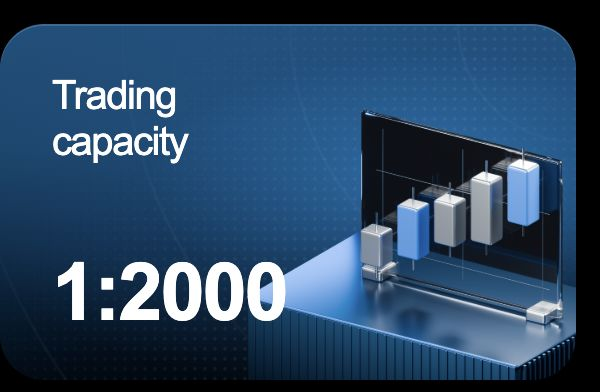
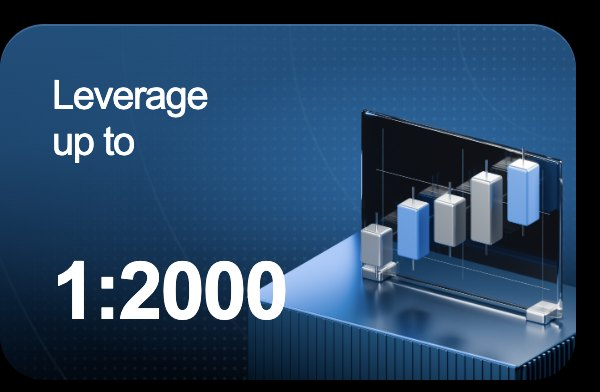
Email v28: brighter-future slogan and leverage/spread card copy
- Slogan: "Trade Better, / Build Brighter Future."
- Cards: "Leverage up to 1:2000" and "Spread from 0 pips"
- Card slices exported in Display P3 to match approved colour

diff --git a/email/source/feature-art.html b/email/source/feature-art.html
@@ -4,4 +4,4 @@
 .card::before{background:repeating-radial-gradient(circle at 100% 0%,transparent 0,transparent 9.667cqw,rgba(168,221,255,.36) 9.75cqw,rgba(168,221,255,.36) 9.875cqw,transparent 10cqw,transparent 14cqw);opacity:.12;mask-image:linear-gradient(140deg,transparent 5%,#000 48%,transparent 92%)}
 .card::after{background-image:radial-gradient(rgba(181,224,255,.58) .10cqw,transparent .17cqw);background-size:.833cqw .833cqw;opacity:.17;mask-image:linear-gradient(125deg,transparent 20%,#000 62%,transparent 98%)}
 .reward{left:2%;top:3.061%;width:46%;height:93.878%}.capacity{left:50%;top:3.061%;width:48%;height:45.408%}.spreads{left:50%;top:51.531%;width:48%;height:45.408%}.copy{position:absolute;z-index:3}h2,p{margin:0}.reward-copy{left:6%;top:9.8%}.reward-copy h2{font-size:4.667cqw;line-height:1.08;font-weight:700;letter-spacing:-.16cqw}.reward-copy p{font-size:2.333cqw;line-height:1.3;margin-top:1.2cqw;color:#FFFFFF}.right-copy{left:54.333%;}.capacity-copy{top:9.184%}.spreads-copy{top:57.653%}.right-copy{height:33.163%;display:flex;flex-direction:column;justify-content:space-between}.right-copy p.metric{margin:0;font-size:6.667cqw;line-height:1;font-weight:700;letter-spacing:-.20cqw}.right-copy p{font-size:2cqw;line-height:1.3;color:#FFFFFF;margin-bottom:.8cqw}.right-copy h2{font-size:3.333cqw;line-height:1.15;font-weight:500;letter-spacing:-.12cqw}.asset{position:absolute;display:block;height:auto;pointer-events:none;filter:none}.reward-wrap{position:absolute;left:2%;top:3.061%;width:46%;height:93.878%;border-radius:3.667cqw;overflow:hidden;z-index:2}.reward-wrap .gift{width:137.681%;left:-5.072%;top:11.413%;z-index:2}.capacity-wrap{position:absolute;left:50%;top:3.061%;width:48%;height:45.408%;border-radius:3.667cqw;overflow:hidden;z-index:2}.capacity-wrap .chart{width:87%;height:87%;left:17%;top:13%;object-fit:fill}.tower-wrap{position:absolute;left:50%;top:51.531%;width:48%;height:45.408%;border-radius:3.667cqw;overflow:hidden;z-index:2}.tower-wrap .rails{width:100%;height:100%;left:0;top:0;z-index:2;object-fit:fill}.link{position:absolute;z-index:5;text-decoration:none;color:inherit}.reward-link{left:2%;top:3.061%;width:46%;height:93.878%}.capacity-link{left:50%;top:3.061%;width:48%;height:45.408%}.spreads-link{left:50%;top:51.531%;width:48%;height:45.408%}.link:focus-visible{outline:2px solid #fff;border-radius:3.667cqw}
-</style></head><body><main class="art" aria-label="Loyal Primus account features"><div class="card reward"></div><div class="card capacity"></div><div class="card spreads"></div><div class="copy reward-copy"><h2>Loyalty Points</h2><p>Get Exclusive Rewards</p></div><div class="copy right-copy capacity-copy"><h2>Trading<br>capacity</h2><p class="metric">1:2000</p></div><div class="copy right-copy spreads-copy"><h2>Spreads<br>&amp; pricing</h2><p class="metric">0 pips</p></div><div class="reward-wrap"><img class="asset gift" src="../assets/rewards-platform.png" alt="Glass gift box, coins and softly curved paper confetti on a sapphire tower"></div><div class="capacity-wrap"><img class="asset chart" src="../assets/capacity-platform.png" alt="Glass candlestick chart on an extended sapphire tower"></div><div class="tower-wrap"><img class="asset rails" src="../assets/spreads-tower.png" alt="Silver price rails on a ribbed sapphire tower"></div><a class="link reward-link" aria-label="Explore loyalty rewards" href="https://loyalprimusmarkets.com/loyalty-program/"></a><a class="link capacity-link" aria-label="Explore trading accounts" href="https://loyalprimusmarkets.com/our-pricing-plans/"></a><a class="link spreads-link" aria-label="Explore spreads and pricing" href="https://loyalprimusmarkets.com/our-pricing-plans/"></a></main></body></html>
+</style></head><body><main class="art" aria-label="Loyal Primus account features"><div class="card reward"></div><div class="card capacity"></div><div class="card spreads"></div><div class="copy reward-copy"><h2>Loyalty Points</h2><p>Get Exclusive Rewards</p></div><div class="copy right-copy capacity-copy"><h2>Leverage<br>up to</h2><p class="metric">1:2000</p></div><div class="copy right-copy spreads-copy"><h2>Spread<br>from</h2><p class="metric">0 pips</p></div><div class="reward-wrap"><img class="asset gift" src="../assets/rewards-platform.png" alt="Glass gift box, coins and softly curved paper confetti on a sapphire tower"></div><div class="capacity-wrap"><img class="asset chart" src="../assets/capacity-platform.png" alt="Glass candlestick chart on an extended sapphire tower"></div><div class="tower-wrap"><img class="asset rails" src="../assets/spreads-tower.png" alt="Silver price rails on a ribbed sapphire tower"></div><a class="link reward-link" aria-label="Explore loyalty rewards" href="https://loyalprimusmarkets.com/loyalty-program/"></a><a class="link capacity-link" aria-label="Explore trading accounts" href="https://loyalprimusmarkets.com/our-pricing-plans/"></a><a class="link spreads-link" aria-label="Explore spreads and pricing" href="https://loyalprimusmarkets.com/our-pricing-plans/"></a></main></body></html>

diff --git a/email/export.html b/email/export.html
@@ -4,4 +4,4 @@
 .card::before{background:repeating-radial-gradient(circle at 100% 0%,transparent 0,transparent 9.667cqw,rgba(168,221,255,.36) 9.75cqw,rgba(168,221,255,.36) 9.875cqw,transparent 10cqw,transparent 14cqw);opacity:.12;mask-image:linear-gradient(140deg,transparent 5%,#000 48%,transparent 92%)}
 .card::after{background-image:radial-gradient(rgba(181,224,255,.58) .10cqw,transparent .17cqw);background-size:.833cqw .833cqw;opacity:.17;mask-image:linear-gradient(125deg,transparent 20%,#000 62%,transparent 98%)}
 .reward{left:2%;top:3.061%;width:46%;height:93.878%}.capacity{left:50%;top:3.061%;width:48%;height:45.408%}.spreads{left:50%;top:51.531%;width:48%;height:45.408%}.copy{position:absolute;z-index:3}h2,p{margin:0}.reward-copy{left:6%;top:9.8%}.reward-copy h2{font-size:4.667cqw;line-height:1.08;font-weight:700;letter-spacing:-.16cqw}.reward-copy p{font-size:2.333cqw;line-height:1.3;margin-top:1.2cqw;color:#FFFFFF}.right-copy{left:54.333%;}.capacity-copy{top:9.184%}.spreads-copy{top:57.653%}.right-copy{height:33.163%;display:flex;flex-direction:column;justify-content:space-between}.right-copy p.metric{margin:0;font-size:6.667cqw;line-height:1;font-weight:700;letter-spacing:-.20cqw}.right-copy p{font-size:2cqw;line-height:1.3;color:#FFFFFF;margin-bottom:.8cqw}.right-copy h2{font-size:3.333cqw;line-height:1.15;font-weight:500;letter-spacing:-.12cqw}.asset{position:absolute;display:block;height:auto;pointer-events:none;filter:none}.reward-wrap{position:absolute;left:2%;top:3.061%;width:46%;height:93.878%;border-radius:3.667cqw;overflow:hidden;z-index:2}.reward-wrap .gift{width:137.681%;left:-5.072%;top:11.413%;z-index:2}.capacity-wrap{position:absolute;left:50%;top:3.061%;width:48%;height:45.408%;border-radius:3.667cqw;overflow:hidden;z-index:2}.capacity-wrap .chart{width:87%;height:87%;left:17%;top:13%;object-fit:fill}.tower-wrap{position:absolute;left:50%;top:51.531%;width:48%;height:45.408%;border-radius:3.667cqw;overflow:hidden;z-index:2}.tower-wrap .rails{width:100%;height:100%;left:0;top:0;z-index:2;object-fit:fill}.link{position:absolute;z-index:5;text-decoration:none;color:inherit}.reward-link{left:2%;top:3.061%;width:46%;height:93.878%}.capacity-link{left:50%;top:3.061%;width:48%;height:45.408%}.spreads-link{left:50%;top:51.531%;width:48%;height:45.408%}.link:focus-visible{outline:2px solid #fff;border-radius:3.667cqw}
-</style></head><body><main class="art" aria-label="Loyal Primus account features"><div class="card reward"></div><div class="card capacity"></div><div class="card spreads"></div><div class="copy reward-copy"><h2>Loyalty Points</h2><p>Get Exclusive Rewards</p></div><div class="copy right-copy capacity-copy"><h2>Trading<br>capacity</h2><p class="metric">1:2000</p></div><div class="copy right-copy spreads-copy"><h2>Spreads<br>&amp; pricing</h2><p class="metric">0 pips</p></div><div class="reward-wrap"><img class="asset gift" src="assets/rewards-platform.png" alt="Glass gift box, coins and softly curved paper confetti on a sapphire tower"></div><div class="capacity-wrap"><img class="asset chart" src="assets/capacity-platform.png" alt="Glass candlestick chart on an extended sapphire tower"></div><div class="tower-wrap"><img class="asset rails" src="assets/spreads-tower.png" alt="Silver price rails on a ribbed sapphire tower"></div><a class="link reward-link" aria-label="Explore loyalty rewards" href="https://loyalprimusmarkets.com/loyalty-program/"></a><a class="link capacity-link" aria-label="Explore trading accounts" href="https://loyalprimusmarkets.com/our-pricing-plans/"></a><a class="link spreads-link" aria-label="Explore spreads and pricing" href="https://loyalprimusmarkets.com/our-pricing-plans/"></a></main></body></html>
+</style></head><body><main class="art" aria-label="Loyal Primus account features"><div class="card reward"></div><div class="card capacity"></div><div class="card spreads"></div><div class="copy reward-copy"><h2>Loyalty Points</h2><p>Get Exclusive Rewards</p></div><div class="copy right-copy capacity-copy"><h2>Leverage<br>up to</h2><p class="metric">1:2000</p></div><div class="copy right-copy spreads-copy"><h2>Spread<br>from</h2><p class="metric">0 pips</p></div><div class="reward-wrap"><img class="asset gift" src="assets/rewards-platform.png" alt="Glass gift box, coins and softly curved paper confetti on a sapphire tower"></div><div class="capacity-wrap"><img class="asset chart" src="assets/capacity-platform.png" alt="Glass candlestick chart on an extended sapphire tower"></div><div class="tower-wrap"><img class="asset rails" src="assets/spreads-tower.png" alt="Silver price rails on a ribbed sapphire tower"></div><a class="link reward-link" aria-label="Explore loyalty rewards" href="https://loyalprimusmarkets.com/loyalty-program/"></a><a class="link capacity-link" aria-label="Explore trading accounts" href="https://loyalprimusmarkets.com/our-pricing-plans/"></a><a class="link spreads-link" aria-label="Explore spreads and pricing" href="https://loyalprimusmarkets.com/our-pricing-plans/"></a></main></body></html>

diff --git a/email/section.html b/email/section.html
@@ -4,4 +4,4 @@
 .card::before{background:repeating-radial-gradient(circle at 100% 0%,transparent 0,transparent 9.667cqw,rgba(168,221,255,.36) 9.75cqw,rgba(168,221,255,.36) 9.875cqw,transparent 10cqw,transparent 14cqw);opacity:.12;mask-image:linear-gradient(140deg,transparent 5%,#000 48%,transparent 92%)}
 .card::after{background-image:radial-gradient(rgba(181,224,255,.58) .10cqw,transparent .17cqw);background-size:.833cqw .833cqw;opacity:.17;mask-image:linear-gradient(125deg,transparent 20%,#000 62%,transparent 98%)}
 .reward{left:2%;top:3.061%;width:46%;height:93.878%}.capacity{left:50%;top:3.061%;width:48%;height:45.408%}.spreads{left:50%;top:51.531%;width:48%;height:45.408%}.copy{position:absolute;z-index:3}h2,p{margin:0}.reward-copy{left:6%;top:9.8%}.reward-copy h2{font-size:4.667cqw;line-height:1.08;font-weight:700;letter-spacing:-.16cqw}.reward-copy p{font-size:2.333cqw;line-height:1.3;margin-top:1.2cqw;color:#FFFFFF}.right-copy{left:54.333%;}.capacity-copy{top:9.184%}.spreads-copy{top:57.653%}.right-copy{height:33.163%;display:flex;flex-direction:column;justify-content:space-between}.right-copy p.metric{margin:0;font-size:6.667cqw;line-height:1;font-weight:700;letter-spacing:-.20cqw}.right-copy p{font-size:2cqw;line-height:1.3;color:#FFFFFF;margin-bottom:.8cqw}.right-copy h2{font-size:3.333cqw;line-height:1.15;font-weight:500;letter-spacing:-.12cqw}.asset{position:absolute;display:block;height:auto;pointer-events:none;filter:none}.reward-wrap{position:absolute;left:2%;top:3.061%;width:46%;height:93.878%;border-radius:3.667cqw;overflow:hidden;z-index:2}.reward-wrap .gift{width:137.681%;left:-5.072%;top:11.413%;z-index:2}.capacity-wrap{position:absolute;left:50%;top:3.061%;width:48%;height:45.408%;border-radius:3.667cqw;overflow:hidden;z-index:2}.capacity-wrap .chart{width:87%;height:87%;left:17%;top:13%;object-fit:fill}.tower-wrap{position:absolute;left:50%;top:51.531%;width:48%;height:45.408%;border-radius:3.667cqw;overflow:hidden;z-index:2}.tower-wrap .rails{width:100%;height:100%;left:0;top:0;z-index:2;object-fit:fill}.link{position:absolute;z-index:5;text-decoration:none;color:inherit}.reward-link{left:2%;top:3.061%;width:46%;height:93.878%}.capacity-link{left:50%;top:3.061%;width:48%;height:45.408%}.spreads-link{left:50%;top:51.531%;width:48%;height:45.408%}.link:focus-visible{outline:2px solid #fff;border-radius:3.667cqw}
-</style></head><body><main class="art" aria-label="Loyal Primus account features"><div class="card reward"></div><div class="card capacity"></div><div class="card spreads"></div><div class="copy reward-copy"><h2>Loyalty Points</h2><p>Get Exclusive Rewards</p></div><div class="copy right-copy capacity-copy"><h2>Trading<br>capacity</h2><p class="metric">1:2000</p></div><div class="copy right-copy spreads-copy"><h2>Spreads<br>&amp; pricing</h2><p class="metric">0 pips</p></div><div class="reward-wrap"><img class="asset gift" src="assets/rewards-platform.png" alt="Glass gift box, coins and softly curved paper confetti on a sapphire tower"></div><div class="capacity-wrap"><img class="asset chart" src="assets/capacity-platform.png" alt="Glass candlestick chart on an extended sapphire tower"></div><div class="tower-wrap"><img class="asset rails" src="assets/spreads-tower.png" alt="Silver price rails on a ribbed sapphire tower"></div><a class="link reward-link" aria-label="Explore loyalty rewards" href="https://loyalprimusmarkets.com/loyalty-program/"></a><a class="link capacity-link" aria-label="Explore trading accounts" href="https://loyalprimusmarkets.com/our-pricing-plans/"></a><a class="link spreads-link" aria-label="Explore spreads and pricing" href="https://loyalprimusmarkets.com/our-pricing-plans/"></a></main></body></html>
+</style></head><body><main class="art" aria-label="Loyal Primus account features"><div class="card reward"></div><div class="card capacity"></div><div class="card spreads"></div><div class="copy reward-copy"><h2>Loyalty Points</h2><p>Get Exclusive Rewards</p></div><div class="copy right-copy capacity-copy"><h2>Leverage<br>up to</h2><p class="metric">1:2000</p></div><div class="copy right-copy spreads-copy"><h2>Spread<br>from</h2><p class="metric">0 pips</p></div><div class="reward-wrap"><img class="asset gift" src="assets/rewards-platform.png" alt="Glass gift box, coins and softly curved paper confetti on a sapphire tower"></div><div class="capacity-wrap"><img class="asset chart" src="assets/capacity-platform.png" alt="Glass candlestick chart on an extended sapphire tower"></div><div class="tower-wrap"><img class="asset rails" src="assets/spreads-tower.png" alt="Silver price rails on a ribbed sapphire tower"></div><a class="link reward-link" aria-label="Explore loyalty rewards" href="https://loyalprimusmarkets.com/loyalty-program/"></a><a class="link capacity-link" aria-label="Explore trading accounts" href="https://loyalprimusmarkets.com/our-pricing-plans/"></a><a class="link spreads-link" aria-label="Explore spreads and pricing" href="https://loyalprimusmarkets.com/our-pricing-plans/"></a></main></body></html>

diff --git a/email/section-email.html b/email/section-email.html
@@ -1,6 +1,6 @@
 <!doctype html><html lang="en"><head><meta charset="utf-8"><meta name="viewport" content="width=device-width,initial-scale=1"><title>Loyal Primus · Account section</title><style>body{margin:0!important;padding:0!important;width:100%!important;background:#080b10;-webkit-text-size-adjust:100%;-ms-text-size-adjust:100%}table{border-collapse:collapse;mso-table-lspace:0;mso-table-rspace:0}td{padding:0;font-family:Arial,Helvetica,sans-serif}img{display:block;border:0;outline:0}h1,h2,p{margin:0}a{color:inherit}a[x-apple-data-detectors]{color:inherit!important;text-decoration:none!important}@media screen and (max-width:520px){.feature-section{padding:0!important}.feature-gap{width:10px!important}.reward-title{padding:17px 13px 0!important}.reward-title h3{font-size:19px!important;line-height:23px!important}.reward-art{padding:25px 0 0!important}.small-panel{height:137px!important}.small-copy{display:block!important;width:auto!important;padding:12px 12px 0!important}.small-title{font-size:13px!important;line-height:17px!important;letter-spacing:-.2px!important}.small-title span{display:inline!important}.small-arrow{display:none!important}.small-art{display:block!important;width:100%!important}.small-art img{width:104px!important;max-width:104px!important}.stack-gap{height:10px!important;line-height:10px!important}.shell{width:100%!important}.outer{padding:0!important}.mast{padding:27px 27px 0!important}.mast-logo{width:155px!important}.mast-note{font-size:8px!important;letter-spacing:1.1px!important}.hero-type{padding:37px 20px 28px!important}.hero-first{font-size:46px!important;line-height:52px!important;letter-spacing:-1.6px!important}.hero-second{font-size:30px!important;line-height:38px!important;letter-spacing:-.7px!important}.hero-caption{font-size:11px!important;padding-top:18px!important}.reading{padding:36px 28px 40px!important}.letter-lead{font-size:27px!important;line-height:34px!important}.letter-copy{font-size:15px!important;line-height:25px!important}.closing{padding:33px 28px 5px!important}.closing-title{font-size:27px!important;line-height:34px!important;letter-spacing:-.8px!important}.signature-label{font-size:9px!important}.footer{padding:35px 28px 30px!important}.footer-logo{width:205px!important}.legal{font-size:10px!important;line-height:16px!important}.preheader-view{padding:12px 20px!important}.reply-link{padding-top:13px!important;display:block!important}}</style></head><body style="background:#080F19;"><table role="presentation" class="shell" width="600" style="width:600px;max-width:600px;margin:0 auto;"><tr><td class="feature-section" bgcolor="#000000" style="padding:0;background:#000000;">
 <table role="presentation" width="100%" cellspacing="0" cellpadding="0" border="0" style="table-layout:fixed;border-collapse:collapse;"><tr>
 <td width="50%" valign="top" style="padding:0;font-size:0;line-height:0;"><a href="https://loyalprimusmarkets.com/loyalty-program/"><img src="assets/feature-left.jpg" alt="Loyalty Points — Get Exclusive Rewards" width="300" style="width:100%;height:auto;display:block;"></a></td>
-<td width="50%" valign="top" style="padding:0;font-size:0;line-height:0;"><table role="presentation" width="100%" cellspacing="0" cellpadding="0" border="0"><tr><td style="padding:0;font-size:0;line-height:0;"><a href="https://loyalprimusmarkets.com/our-pricing-plans/"><img src="assets/feature-top-right.jpg" alt="Trading capacity — 1:2000" width="300" style="width:100%;height:auto;display:block;"></a></td></tr><tr><td style="padding:0;font-size:0;line-height:0;"><a href="https://loyalprimusmarkets.com/our-pricing-plans/"><img src="assets/feature-bottom-right.jpg" alt="Spreads and pricing — 0 pips" width="300" style="width:100%;height:auto;display:block;"></a></td></tr></table></td>
+<td width="50%" valign="top" style="padding:0;font-size:0;line-height:0;"><table role="presentation" width="100%" cellspacing="0" cellpadding="0" border="0"><tr><td style="padding:0;font-size:0;line-height:0;"><a href="https://loyalprimusmarkets.com/our-pricing-plans/"><img src="assets/feature-top-right.jpg" alt="Leverage up to 1:2000" width="300" style="width:100%;height:auto;display:block;"></a></td></tr><tr><td style="padding:0;font-size:0;line-height:0;"><a href="https://loyalprimusmarkets.com/our-pricing-plans/"><img src="assets/feature-bottom-right.jpg" alt="Spread from 0 pips" width="300" style="width:100%;height:auto;display:block;"></a></td></tr></table></td>
 </tr></table></td></tr>
 </table></body></html>

diff --git a/email/email.html b/email/email.html
@@ -5,7 +5,7 @@
 <table role="presentation" class="shell" width="600" style="width:600px;max-width:600px;" bgcolor="#000102">
 <tr><td class="preheader-view" align="center" style="padding:0 20px 16px;background:#080b10;font-size:9px;line-height:13px;color:#FFFFFF;"><a href="{{view_in_browser_url}}" style="text-decoration:underline;">View this letter in your browser</a></td></tr>
 <tr><td align="center" bgcolor="#000000" style="padding:4% 0 0;background:#000000;font-size:0;line-height:0;"><img src="assets/logo.png" alt="Loyal Primus" width="200" style="display:block;width:33.333333%;max-width:200px;height:auto;margin:0 auto;"></td></tr>
-<tr><td bgcolor="#000000" style="padding:0;background:#000000;"><h1 style="margin:0;font-size:0;line-height:0;font-weight:normal;"><img src="assets/hero-compact.jpg" alt="Trade Better. Build Better Future." width="600" style="width:100%;height:auto;display:block;"></h1></td></tr>
+<tr><td bgcolor="#000000" style="padding:0;background:#000000;"><h1 style="margin:0;font-size:0;line-height:0;font-weight:normal;"><img src="assets/hero-compact.jpg" alt="Trade Better, Build Brighter Future." width="600" style="width:100%;height:auto;display:block;"></h1></td></tr>
 <tr><td class="reading" bgcolor="#030609" style="padding:40px 48px 40px;background:#030609;">
 <p style="font-size:10px;line-height:14px;letter-spacing:1.7px;color:#FFFFFF;">FROM YOUR LOYAL PRIMUS TEAM</p>
 <h2 class="letter-lead" style="margin:15px 0 27px;font-family:Arial,Helvetica,sans-serif;font-size:30px;line-height:37px;letter-spacing:-1px;font-weight:bold;color:#FFFFFF;">A personal thank you.</h2>
@@ -18,7 +18,7 @@
 <tr><td class="feature-section" bgcolor="#000000" style="padding:0;background:#000000;">
 <table role="presentation" width="100%" cellspacing="0" cellpadding="0" border="0" style="table-layout:fixed;border-collapse:collapse;"><tr>
 <td width="50%" valign="top" style="padding:0;font-size:0;line-height:0;"><a href="https://loyalprimusmarkets.com/loyalty-program/"><img src="assets/feature-left.jpg" alt="Loyalty Points — Get Exclusive Rewards" width="300" style="width:100%;height:auto;display:block;"></a></td>
-<td width="50%" valign="top" style="padding:0;font-size:0;line-height:0;"><table role="presentation" width="100%" cellspacing="0" cellpadding="0" border="0"><tr><td style="padding:0;font-size:0;line-height:0;"><a href="https://loyalprimusmarkets.com/our-pricing-plans/"><img src="assets/feature-top-right.jpg" alt="Trading capacity — 1:2000" width="300" style="width:100%;height:auto;display:block;"></a></td></tr><tr><td style="padding:0;font-size:0;line-height:0;"><a href="https://loyalprimusmarkets.com/our-pricing-plans/"><img src="assets/feature-bottom-right.jpg" alt="Spreads and pricing — 0 pips" width="300" style="width:100%;height:auto;display:block;"></a></td></tr></table></td>
+<td width="50%" valign="top" style="padding:0;font-size:0;line-height:0;"><table role="presentation" width="100%" cellspacing="0" cellpadding="0" border="0"><tr><td style="padding:0;font-size:0;line-height:0;"><a href="https://loyalprimusmarkets.com/our-pricing-plans/"><img src="assets/feature-top-right.jpg" alt="Leverage up to 1:2000" width="300" style="width:100%;height:auto;display:block;"></a></td></tr><tr><td style="padding:0;font-size:0;line-height:0;"><a href="https://loyalprimusmarkets.com/our-pricing-plans/"><img src="assets/feature-bottom-right.jpg" alt="Spread from 0 pips" width="300" style="width:100%;height:auto;display:block;"></a></td></tr></table></td>
 </tr></table></td></tr>
 <tr><td height="3" bgcolor="#000000" style="height:3px;font-size:1px;line-height:3px;">&nbsp;</td></tr>
 <tr><td class="footer" align="center" bgcolor="#000000" style="padding:35px 44px 28px;background:#000000;">

diff --git a/email/email-preview.html b/email/email-preview.html
@@ -5,7 +5,7 @@
 <table role="presentation" class="shell" width="600" style="width:600px;max-width:600px;" bgcolor="#000102">
 <tr><td class="preheader-view" align="center" style="padding:0 20px 16px;background:#080b10;font-size:9px;line-height:13px;color:#FFFFFF;"><a href="email-preview.html" style="text-decoration:underline;">View this letter in your browser</a></td></tr>
 <tr><td align="center" bgcolor="#000000" style="padding:4% 0 0;background:#000000;font-size:0;line-height:0;"><img src="assets/logo.png" alt="Loyal Primus" width="200" style="display:block;width:33.333333%;max-width:200px;height:auto;margin:0 auto;"></td></tr>
-<tr><td bgcolor="#000000" style="padding:0;background:#000000;"><h1 style="margin:0;font-size:0;line-height:0;font-weight:normal;"><img src="assets/hero-compact.jpg" alt="Trade Better. Build Better Future." width="600" style="width:100%;height:auto;display:block;"></h1></td></tr>
+<tr><td bgcolor="#000000" style="padding:0;background:#000000;"><h1 style="margin:0;font-size:0;line-height:0;font-weight:normal;"><img src="assets/hero-compact.jpg" alt="Trade Better, Build Brighter Future." width="600" style="width:100%;height:auto;display:block;"></h1></td></tr>
 <tr><td class="reading" bgcolor="#030609" style="padding:40px 48px 40px;background:#030609;">
 <p style="font-size:10px;line-height:14px;letter-spacing:1.7px;color:#FFFFFF;">FROM YOUR LOYAL PRIMUS TEAM</p>
 <h2 class="letter-lead" style="margin:15px 0 27px;font-family:Arial,Helvetica,sans-serif;font-size:30px;line-height:37px;letter-spacing:-1px;font-weight:bold;color:#FFFFFF;">A personal thank you.</h2>
@@ -18,7 +18,7 @@
 <tr><td class="feature-section" bgcolor="#000000" style="padding:0;background:#000000;">
 <table role="presentation" width="100%" cellspacing="0" cellpadding="0" border="0" style="table-layout:fixed;border-collapse:collapse;"><tr>
 <td width="50%" valign="top" style="padding:0;font-size:0;line-height:0;"><a href="https://loyalprimusmarkets.com/loyalty-program/"><img src="assets/feature-left.jpg" alt="Loyalty Points — Get Exclusive Rewards" width="300" style="width:100%;height:auto;display:block;"></a></td>
-<td width="50%" valign="top" style="padding:0;font-size:0;line-height:0;"><table role="presentation" width="100%" cellspacing="0" cellpadding="0" border="0"><tr><td style="padding:0;font-size:0;line-height:0;"><a href="https://loyalprimusmarkets.com/our-pricing-plans/"><img src="assets/feature-top-right.jpg" alt="Trading capacity — 1:2000" width="300" style="width:100%;height:auto;display:block;"></a></td></tr><tr><td style="padding:0;font-size:0;line-height:0;"><a href="https://loyalprimusmarkets.com/our-pricing-plans/"><img src="assets/feature-bottom-right.jpg" alt="Spreads and pricing — 0 pips" width="300" style="width:100%;height:auto;display:block;"></a></td></tr></table></td>
+<td width="50%" valign="top" style="padding:0;font-size:0;line-height:0;"><table role="presentation" width="100%" cellspacing="0" cellpadding="0" border="0"><tr><td style="padding:0;font-size:0;line-height:0;"><a href="https://loyalprimusmarkets.com/our-pricing-plans/"><img src="assets/feature-top-right.jpg" alt="Leverage up to 1:2000" width="300" style="width:100%;height:auto;display:block;"></a></td></tr><tr><td style="padding:0;font-size:0;line-height:0;"><a href="https://loyalprimusmarkets.com/our-pricing-plans/"><img src="assets/feature-bottom-right.jpg" alt="Spread from 0 pips" width="300" style="width:100%;height:auto;display:block;"></a></td></tr></table></td>
 </tr></table></td></tr>
 <tr><td height="3" bgcolor="#000000" style="height:3px;font-size:1px;line-height:3px;">&nbsp;</td></tr>
 <tr><td class="footer" align="center" bgcolor="#000000" style="padding:35px 44px 28px;background:#000000;">

diff --git a/email/source/hero-compact-art.html b/email/source/hero-compact-art.html
@@ -1,1 +1,1 @@
-<!doctype html><html><head><meta charset="utf-8"><style>*{box-sizing:border-box}body{margin:0;background:#000}.hero{position:relative;width:1200px;height:640px;overflow:hidden;background:#000}.scene{position:absolute;inset:0;width:1200px;height:640px}.fade{position:absolute;inset:0;background:linear-gradient(180deg,rgba(0,0,0,.55) 0,rgba(0,0,0,0) 34%),linear-gradient(180deg,transparent 80%,#030609 100%)}h1{position:absolute;left:0;right:0;top:30px;text-align:center;margin:0;color:#fff;font-weight:400}.first{display:block;font-family:Georgia,'Times New Roman',serif;font-weight:400;font-style:italic;font-size:92px;line-height:100px;letter-spacing:-3.4px}.second{display:block;font-family:Arial,Helvetica,sans-serif;font-weight:400;font-size:62px;line-height:74px;letter-spacing:-1.15px}</style></head><body><div class="hero"><img class="scene" src="../assets/hero-compact-background.png"><div class="fade"></div><h1><span class="first">Trade Better</span><span class="second">Build Better Future.</span></h1></div></body></html>
+<!doctype html><html><head><meta charset="utf-8"><style>*{box-sizing:border-box}body{margin:0;background:#000}.hero{position:relative;width:1200px;height:640px;overflow:hidden;background:#000}.scene{position:absolute;inset:0;width:1200px;height:640px}.fade{position:absolute;inset:0;background:linear-gradient(180deg,rgba(0,0,0,.55) 0,rgba(0,0,0,0) 34%),linear-gradient(180deg,transparent 80%,#030609 100%)}h1{position:absolute;left:0;right:0;top:30px;text-align:center;margin:0;color:#fff;font-weight:400}.first{display:block;font-family:Georgia,'Times New Roman',serif;font-weight:400;font-style:italic;font-size:92px;line-height:100px;letter-spacing:-3.4px}.second{display:block;font-family:Arial,Helvetica,sans-serif;font-weight:400;font-size:62px;line-height:74px;letter-spacing:-1.15px}</style></head><body><div class="hero"><img class="scene" src="../assets/hero-compact-background.png"><div class="fade"></div><h1><span class="first">Trade Better,</span><span class="second">Build Brighter Future.</span></h1></div></body></html>

diff --git a/email/source/build_email.py b/email/source/build_email.py
@@ -25,7 +25,7 @@ html=f'''<!doctype html><html lang="en" xmlns:v="urn:schemas-microsoft-com:vml" 
 <table role="presentation" class="shell" width="600" style="width:600px;max-width:600px;" bgcolor="#000102">
 <tr><td class="preheader-view" align="center" style="padding:0 20px 16px;background:#080b10;font-size:9px;line-height:13px;color:#FFFFFF;"><a href="{{{{view_in_browser_url}}}}" style="text-decoration:underline;">View this letter in your browser</a></td></tr>
 <tr><td align="center" bgcolor="#000000" style="padding:4% 0 0;background:#000000;font-size:0;line-height:0;"><img src="assets/logo.png" alt="Loyal Primus" width="200" style="display:block;width:33.333333%;max-width:200px;height:auto;margin:0 auto;"></td></tr>
-<tr><td bgcolor="#000000" style="padding:0;background:#000000;"><h1 style="margin:0;font-size:0;line-height:0;font-weight:normal;"><img src="assets/hero-compact.jpg" alt="Trade Better. Build Better Future." width="600" style="width:100%;height:auto;display:block;"></h1></td></tr>
+<tr><td bgcolor="#000000" style="padding:0;background:#000000;"><h1 style="margin:0;font-size:0;line-height:0;font-weight:normal;"><img src="assets/hero-compact.jpg" alt="Trade Better, Build Brighter Future." width="600" style="width:100%;height:auto;display:block;"></h1></td></tr>
 <tr><td class="reading" bgcolor="#030609" style="padding:40px 48px 40px;background:#030609;">
 <p style="font-size:10px;line-height:14px;letter-spacing:1.7px;color:#FFFFFF;">FROM YOUR LOYAL PRIMUS TEAM</p>
 <h2 class="letter-lead" style="margin:15px 0 27px;font-family:Arial,Helvetica,sans-serif;font-size:30px;line-height:37px;letter-spacing:-1px;font-weight:bold;color:#FFFFFF;">A personal thank you.</h2>
@@ -38,7 +38,7 @@ html=f'''<!doctype html><html lang="en" xmlns:v="urn:schemas-microsoft-com:vml" 
 <tr><td class="feature-section" bgcolor="#000000" style="padding:0;background:#000000;">
 <table role="presentation" width="100%" cellspacing="0" cellpadding="0" border="0" style="table-layout:fixed;border-collapse:collapse;"><tr>
 <td width="50%" valign="top" style="padding:0;font-size:0;line-height:0;"><a href="https://loyalprimusmarkets.com/loyalty-program/"><img src="assets/feature-left.jpg" alt="Loyalty Points — Get Exclusive Rewards" width="300" style="width:100%;height:auto;display:block;"></a></td>
-<td width="50%" valign="top" style="padding:0;font-size:0;line-height:0;"><table role="presentation" width="100%" cellspacing="0" cellpadding="0" border="0"><tr><td style="padding:0;font-size:0;line-height:0;"><a href="https://loyalprimusmarkets.com/our-pricing-plans/"><img src="assets/feature-top-right.jpg" alt="Trading capacity — 1:2000" width="300" style="width:100%;height:auto;display:block;"></a></td></tr><tr><td style="padding:0;font-size:0;line-height:0;"><a href="https://loyalprimusmarkets.com/our-pricing-plans/"><img src="assets/feature-bottom-right.jpg" alt="Spreads and pricing — 0 pips" width="300" style="width:100%;height:auto;display:block;"></a></td></tr></table></td>
+<td width="50%" valign="top" style="padding:0;font-size:0;line-height:0;"><table role="presentation" width="100%" cellspacing="0" cellpadding="0" border="0"><tr><td style="padding:0;font-size:0;line-height:0;"><a href="https://loyalprimusmarkets.com/our-pricing-plans/"><img src="assets/feature-top-right.jpg" alt="Leverage up to 1:2000" width="300" style="width:100%;height:auto;display:block;"></a></td></tr><tr><td style="padding:0;font-size:0;line-height:0;"><a href="https://loyalprimusmarkets.com/our-pricing-plans/"><img src="assets/feature-bottom-right.jpg" alt="Spread from 0 pips" width="300" style="width:100%;height:auto;display:block;"></a></td></tr></table></td>
 </tr></table></td></tr>
 <tr><td height="3" bgcolor="#000000" style="height:3px;font-size:1px;line-height:3px;">&nbsp;</td></tr>
 <tr><td class="footer" align="center" bgcolor="#000000" style="padding:35px 44px 28px;background:#000000;">

diff --git a/email/README.md b/email/README.md
@@ -41,3 +41,6 @@ The hero is now a compact 600 × 320 banner (was 600 × 580), so the letter star
 - `source/hero-compact-art.html` overlays the centered "Trade Better / Build Better Future." headline. It is exported as `assets/hero-compact.jpg` (1200 × 640, 2×).
 - Logo row padding tightened to 4% top and 0 bottom. Same blue PNG logo, rendered in HTML.
 - `assets/hero-content.jpg` (v27 tall hero) is kept for reference but no longer used.
+- Slogan corrected to "Trade Better, / Build Brighter Future." (same serif-italic over sans treatment).
+- Card copy: "Trading capacity" is now "Leverage up to" (1:2000), and "Spreads & pricing" is now "Spread from" (0 pips). Edited in `source/feature-art.html`, `section.html` and `export.html`. Email alt text updated to match.
+- Card slices are exported from `export.html` at 1200 × 784 in Chrome with `--force-color-profile=display-p3-d65`, then cut into left 600 × 784 and right 600 × 392 halves. This matches the colour of the approved v24–v27 slices; a default sRGB capture renders noticeably more saturated.
